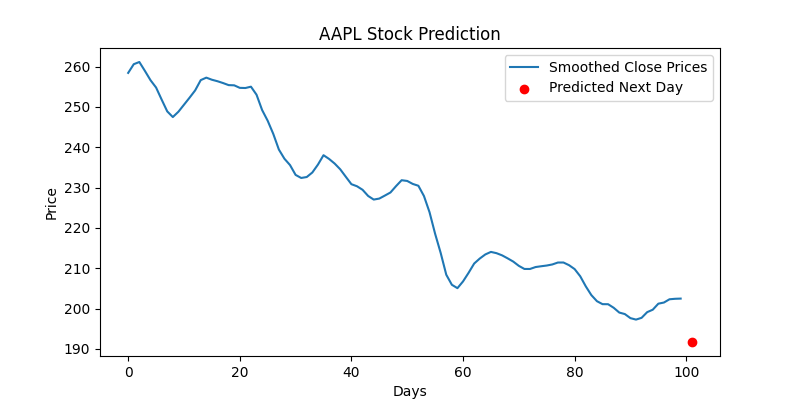
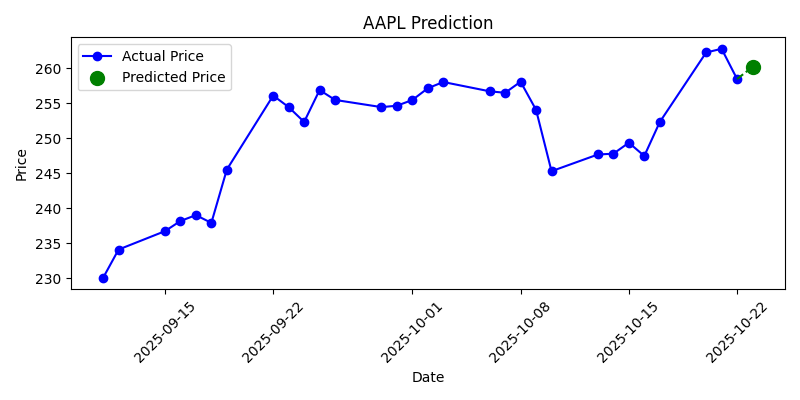
Updated model, added prediction reasoning and improved frontend

diff --git a/static/style.css b/static/style.css
@@ -1,34 +1,62 @@
 body {
-    background: linear-gradient(to right, #e0f7fa, #e1bee7);
+    background: linear-gradient(to bottom right, #0D1B2A, #1B263B);
     font-family: 'Poppins', sans-serif;
+    color: white;
     text-align: center;
-    color: #333;
+    margin: 0;
+    padding: 0;
 }
 
 .container {
-    margin-top: 80px;
+    max-width: 800px;
+    margin: 50px auto;
+}
+
+h1 {
+    font-weight: 600;
+    color: #00FF7F;
+    margin-bottom: 40px;
+}
+
+.card, .result-card {
+    background-color: white;
+    color: black;
+    padding: 30px;
+    border-radius: 15px;
+    box-shadow: 0px 10px 20px rgba(0,0,0,0.3);
+    margin-bottom: 30px;
 }
 
 input {
-    padding: 10px;
-    width: 250px;
-    border: 2px solid #673ab7;
-    border-radius: 8px;
+    padding: 12px 20px;
+    width: 60%;
+    border: 2px solid #00FF7F;
+    border-radius: 10px;
+    margin-right: 10px;
 }
 
 button {
-    padding: 10px 20px;
-    background-color: #673ab7;
-    color: white;
+    padding: 12px 25px;
+    background-color: #00FF7F;
+    color: black;
     border: none;
-    border-radius: 8px;
+    border-radius: 10px;
     cursor: pointer;
+    font-weight: 600;
 }
 
 button:hover {
-    background-color: #512da8;
+    background-color: #00CC66;
 }
 
-.result {
-    margin-top: 30px;
+.result-card img {
+    max-width: 100%;
+    height: auto;
+    margin-top: 20px;
+    border-radius: 10px;
+}
+
+.result-card p {
+    margin: 15px 0;
+    font-size: 1rem;
 }

diff --git a/templates/index.html b/templates/index.html
@@ -4,18 +4,23 @@
     <meta charset="UTF-8">
     <title>Stock Market Predictor</title>
     <link rel="stylesheet" href="{{ url_for('static', filename='style.css') }}">
+    <link href="https://fonts.googleapis.com/css2?family=Poppins:wght@400;600&display=swap" rel="stylesheet">
 </head>
 <body>
     <div class="container">
-        <h1>📈 Stock Market Predictor</h1>
-        <form method="POST" action="/predict">
-            <input type="text" name="symbol" placeholder="Enter Stock Symbol (e.g. AAPL)" required>
-            <button type="submit">Predict</button>
-        </form>
+        <h1>📊 Stock Market Predictor</h1>
+        <div class="card">
+            <form method="POST" action="/">
+                <input type="text" name="symbol" placeholder="Enter Stock Symbol (e.g., AAPL)" required>
+                <button type="submit">Predict</button>
+            </form>
+        </div>
 
         {% if prediction %}
-        <div class="result">
+        <div class="result-card">
             <h2>Predicted Price for {{ symbol }}: ₹{{ prediction }}</h2>
+            <p style="color: green; font-weight: 600; font-size: 1.2rem;">{{ suggestion }}</p>
+            <p style="color: #333; font-size: 1rem;">{{ reasoning }}</p>
             <img src="{{ url_for('static', filename=symbol + '_plot.png') }}" alt="Stock Plot">
         </div>
         {% endif %}

diff --git a/model.py b/model.py
@@ -1,49 +1,100 @@
-import matplotlib
-matplotlib.use('Agg')
 import os
+import matplotlib
+matplotlib.use('Agg')  # Non-GUI backend for macOS
 import matplotlib.pyplot as plt
-import pandas as pd
 import numpy as np
+import pandas as pd
 from sklearn.linear_model import LinearRegression
 from alpha_vantage.timeseries import TimeSeries
-from utils import smooth_data
+import yfinance as yf
 
-def predict_stock(symbol):
-    api_key = os.getenv("ALPHAVANTAGE_API_KEY")
-    ts = TimeSeries(key=api_key, output_format='pandas')
-    data, _ = ts.get_daily(symbol=symbol, outputsize='compact')
+# ---------------- API Key ----------------
+API_KEY = 'A1AP3WSVCIITGGT8'
 
-    data = data.rename(columns={
-        '1. open': 'open',
-        '2. high': 'high',
-        '3. low': 'low',
-        '4. close': 'close',
-        '5. volume': 'volume'
-    })
+# ---------------- Fetch Stock Data Safely ----------------
+def fetch_stock_data(symbol):
+    """
+    Fetch closing prices for a stock symbol.
+    - Alpha Vantage for US stocks
+    - Fallback to Yahoo Finance for US + Indian stocks
+    Returns: pandas Series of closing prices (sorted ascending by date)
+    """
+    # Try Alpha Vantage first (US stocks)
+    try:
+        ts = TimeSeries(key=API_KEY, output_format='pandas')
+        data, _ = ts.get_daily(symbol=symbol, outputsize='compact')
+        if data.empty or '4. close' not in data.columns:
+            raise ValueError("Alpha Vantage returned empty/invalid data")
+        close = data['4. close'].sort_index()
+        return close
+    except Exception:
+        # Fallback to Yahoo Finance
+        data = yf.download(symbol, period="1mo", interval="1d")
+        if data.empty or 'Close' not in data.columns:
+            raise ValueError(f"No valid data returned for symbol {symbol}. Check symbol spelling or internet connection.")
+        close = data['Close'].sort_index()
+        return close
 
-    data['close_smooth'] = smooth_data(data['close'])
+# ---------------- Predict Stock Price ----------------
+def predict_stock_price(symbol):
+    """
+    Returns:
+    - predicted_price: next day predicted price
+    - last_close: last available closing price
+    - data_recent: last 30 days of actual prices (pandas Series)
+    """
+    data = fetch_stock_data(symbol)
+    last_close = data[-1]
 
-    data['day'] = np.arange(len(data))
-    X = data[['day']]
-    y = data['close_smooth']
-
+    # Linear regression on last 30 days
+    data_recent = data[-30:]
+    X = np.arange(len(data_recent)).reshape(-1,1)
+    y = data_recent.values.reshape(-1,1)
     model = LinearRegression()
     model.fit(X, y)
+    predicted = model.predict(np.array([[len(data_recent)]]))[0][0]
 
-    next_day = np.array([[len(data) + 1]])
-    prediction = model.predict(next_day)[0]
+    return round(predicted, 2), last_close, data_recent
 
-    # Plot actual + predicted
-    plt.figure(figsize=(8, 4))
-    plt.plot(data['day'], data['close_smooth'], label='Smoothed Close Prices')
-    plt.scatter(len(data) + 1, prediction, color='red', label='Predicted Next Day')
-    plt.title(f'{symbol} Stock Prediction')
-    plt.xlabel('Days')
-    plt.ylabel('Price')
+# ---------------- Buy/Hold/Avoid Suggestion ----------------
+def get_buy_suggestion(last_close, predicted):
+    """
+    Returns:
+    - suggestion: Buy/Hold/Avoid string
+    - reasoning: Explanation string
+    """
+    change_percent = ((predicted - last_close) / last_close) * 100
+    
+    if change_percent >= 2:
+        suggestion = "✅ Suggested: Good time to BUY this stock."
+        reasoning = f"Predicted price {predicted:.2f} is {change_percent:.2f}% higher than last close {last_close:.2f}, indicating upward momentum."
+    elif change_percent <= -2:
+        suggestion = "❌ Suggested: Avoid buying right now."
+        reasoning = f"Predicted price {predicted:.2f} is {abs(change_percent):.2f}% lower than last close {last_close:.2f}, suggesting a potential downward trend."
+    else:
+        suggestion = "⏳ Suggested: Hold / Wait."
+        reasoning = f"Predicted price {predicted:.2f} is close to last close {last_close:.2f}, indicating minimal expected movement."
+    
+    return suggestion, reasoning
+
+# ---------------- Save Trend Plot ----------------
+def save_plot(symbol, predicted, data_recent, path):
+    """
+    Saves a plot showing last 30 days of prices and predicted next day
+    """
+    plt.figure(figsize=(8,4))
+    plt.plot(data_recent.index, data_recent.values, marker='o', label='Actual Price', color='blue')
+
+    # Predicted next day
+    next_day = data_recent.index[-1] + pd.Timedelta(days=1)
+    plt.scatter(next_day, predicted, color='green', s=100, label='Predicted Price')
+    plt.plot([data_recent.index[-1], next_day], [data_recent.values[-1], predicted], linestyle='--', color='green')
+
+    plt.title(f"{symbol} Prediction")
+    plt.xlabel("Date")
+    plt.ylabel("Price")
+    plt.xticks(rotation=45)
     plt.legend()
-
-    plot_path = os.path.join('static', f'{symbol}_plot.png')
-    plt.savefig(plot_path)
+    plt.tight_layout()
+    plt.savefig(path)
     plt.close()
-
-    return round(prediction, 2), plot_path

diff --git a/app.py b/app.py
@@ -1,21 +1,33 @@
 from flask import Flask, render_template, request
-from model import predict_stock
-import os
+from model import predict_stock_price, get_buy_suggestion, save_plot
 
 app = Flask(__name__)
 
-@app.route('/')
+@app.route('/', methods=['GET', 'POST'])
 def home():
-    return render_template('index.html')
+    if request.method == 'POST':
+        symbol = request.form['symbol'].upper()
+        predicted_price, last_close, data_recent = predict_stock_price(symbol)
+        suggestion, reasoning = get_buy_suggestion(last_close, predicted_price)
 
-@app.route('/predict', methods=['POST'])
-def predict():
-    symbol = request.form['symbol']
-    prediction, plot_path = predict_stock(symbol)
-    return render_template('index.html', prediction=prediction, plot_path=plot_path, symbol=symbol)
+        # Save plot for frontend
+        plot_path = f"static/{symbol}_plot.png"
+        save_plot(symbol, predicted_price, data_recent, plot_path)
+
+        return render_template(
+            'index.html',
+            prediction=predicted_price,
+            symbol=symbol,
+            suggestion=suggestion,
+            reasoning=reasoning
+        )
+
+    return render_template('index.html')
 
 if __name__ == '__main__':
     app.run(debug=True)
+
+
 
 
 
